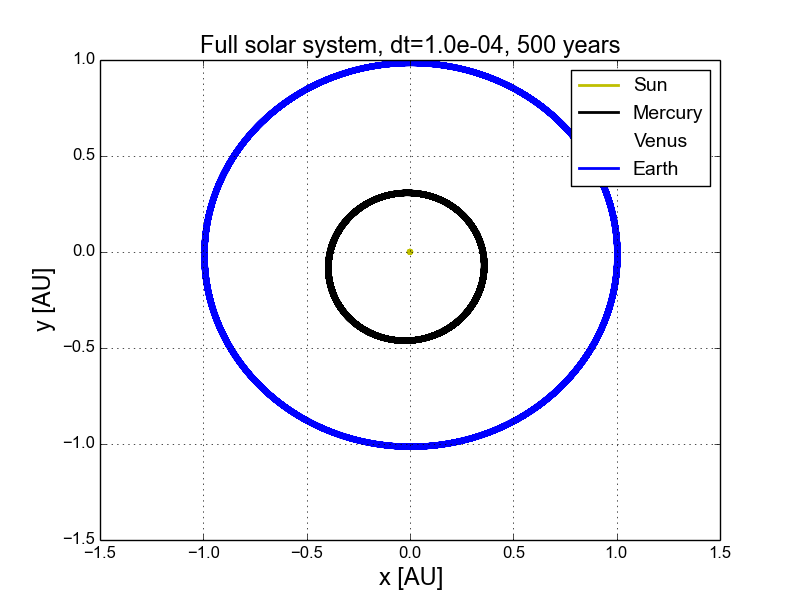
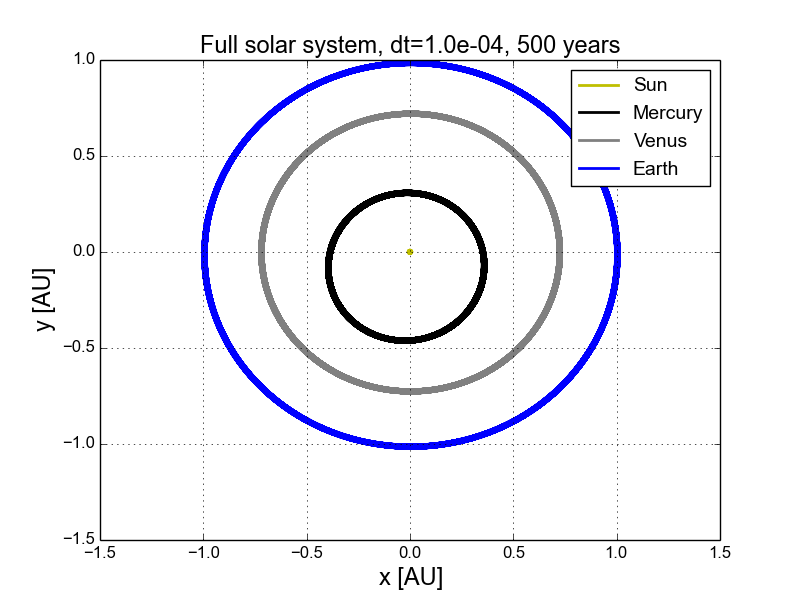
adding a few more figures

diff --git a/python/solar_system.py b/python/solar_system.py
@@ -115,7 +115,7 @@ if __name__=='__main__':
     if task=='WS':
         bodies = ['Sun','Mercury','Venus','Earth','Mars','Jupiter',
                   'Saturn','Uranus','Neptune','Pluto']
-        colors = ['y','k','w','b','r','m','g','c','0.3','0.8']
+        colors = ['y','k','0.5','b','r','m','g','c','0.3','0.8']
         files = glob.glob('../benchmarks/WS/pos*.xyz')
         for filename in files:
             words = filename.split('_')
@@ -125,8 +125,8 @@ if __name__=='__main__':
             # Plotting
             positions = read_file(filename,N)
             
-            start = 0
-            end = 6
+            start = 5
+            end = 0
             for i in range(start,len(positions)- end):
                 plot(positions[i][:,0],positions[i][:,1],color=colors[i],lw=2.0,label=bodies[i])
             xlabel('x [AU]',size=17)
